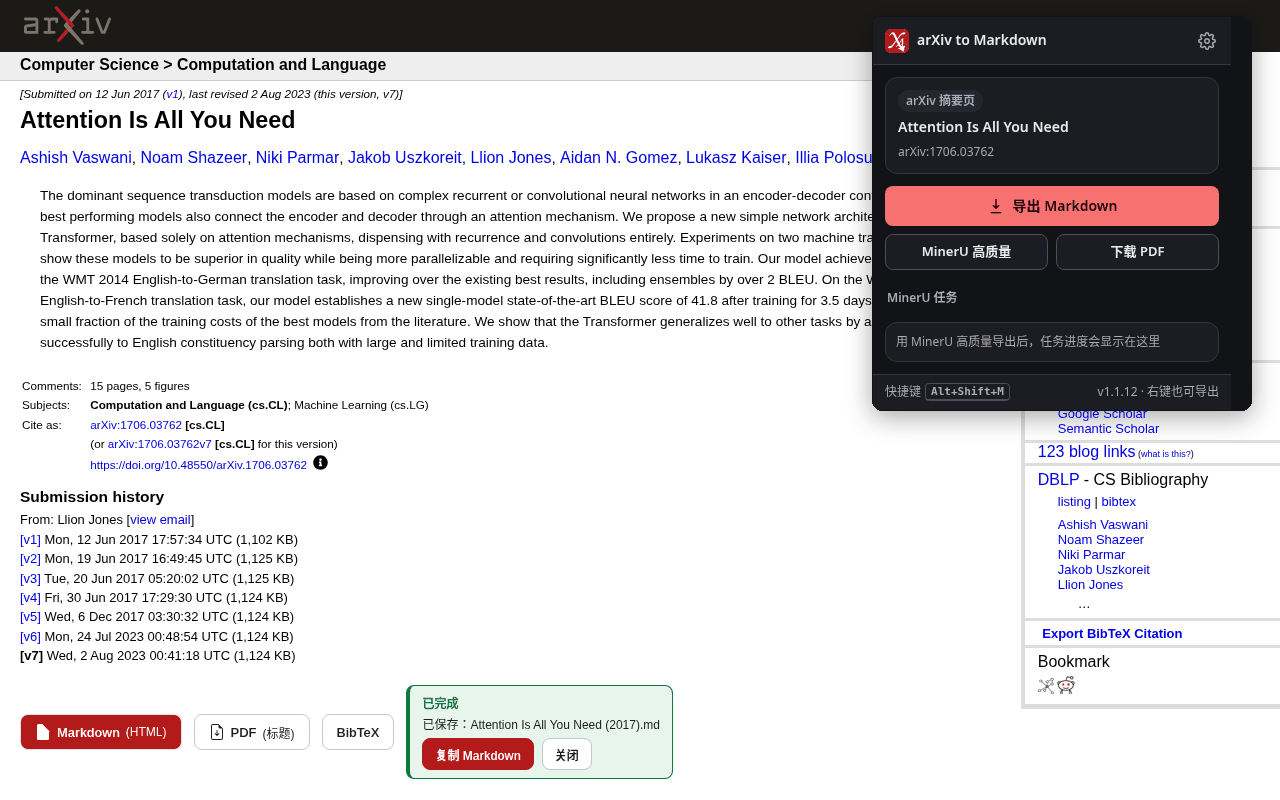
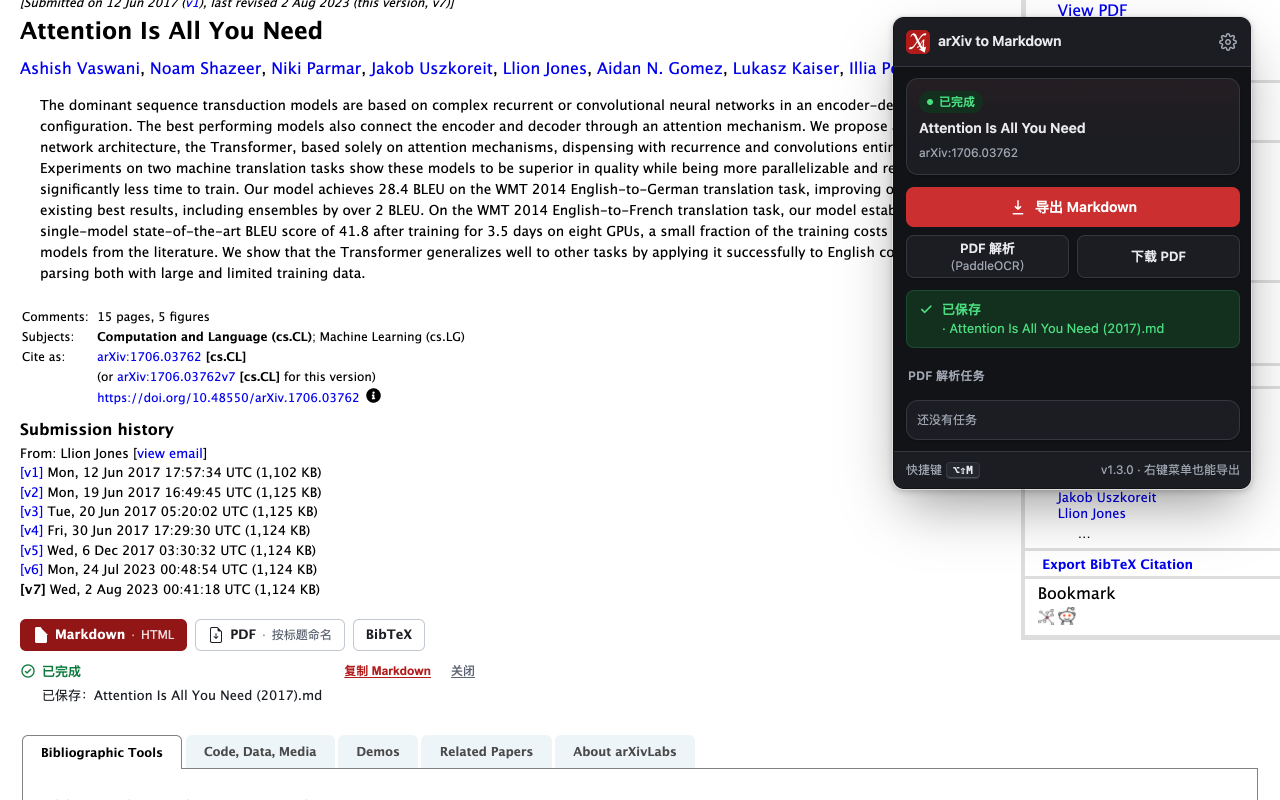
docs: refresh README screenshots and add Chrome Web Store assets
- README uses the same six screenshots in all three extensions (hero light/dark, page entry, exported Markdown, popup, settings), captured from the current release.
- docs/store/: Chinese store screenshots (1280x800), small and marquee promo tiles, and description.zh.txt ready to paste; docs/store-listing.md lists them.

Changed region(s): [[0.0, 0.0, 1.0, 0.9688], [0.9688, 0.1562, 1.0, 0.1875], [0.9688, 0.0938, 1.0, 0.125]]

diff --git a/docs/store-listing.md b/docs/store-listing.md
@@ -56,6 +56,8 @@
 • Zhihu to Markdown：知乎文章、回答、问题和热榜存为 Markdown。
 • Journal to Markdown：PMC、Nature、Frontiers 等期刊全文存为 Markdown。
 
+需要 Chrome 121 或更高版本。
+
 开源（MIT）：github.com/Tendo33/arxiv-md
 ```
 
@@ -89,8 +91,24 @@ Also in the series
 • Zhihu to Markdown — save Zhihu articles, answers, questions and the hot list as Markdown.
 • Journal to Markdown — save full-text articles from PMC, Nature, Frontiers and more as Markdown.
 
+Requires Chrome 121 or later.
+
 Open source (MIT): github.com/Tendo33/arxiv-md
 ```
+
+## 图片素材（中文，可直接上传）
+
+全部由真实扩展界面截取后合成，三款插件同一版式。生成方式：无界面 Chromium 加载 `dist/`，截取弹窗、设置页和页面内元素，导出的 Markdown 来自真实导出结果。
+
+| 文件 | 尺寸 | 内容 |
+| --- | --- | --- |
+| `docs/store/screenshot-1.png` | 1280×800 | 一键把 arXiv 论文存为 Markdown（论文页按钮 + 弹窗） |
+| `docs/store/screenshot-2.png` | 1280×800 | 公式、表格、参考文献原样保留（导出的 Markdown） |
+| `docs/store/screenshot-3.png` | 1280×800 | 没有 HTML 版？用 PDF 解析（设置页） |
+| `docs/store/screenshot-4.png` | 1280×800 | 浅色、深色都顺眼（深色模式） |
+| `docs/store/promo-small-440x280.png` | 440×280 | 小型宣传图块（必填） |
+| `docs/store/promo-marquee-1400x560.png` | 1400×560 | 顶部宣传图块（可选） |
+| `docs/store/description.zh.txt` | — | 中文详细说明，粘贴到「说明」 |
 
 ## 单一用途说明
 

diff --git a/README.md b/README.md
@@ -36,7 +36,7 @@
 
 | 页面内按钮 | 导出的 Markdown |
 | --- | --- |
-| <img src="docs/screenshots/page-buttons.png" alt="页面内按钮与结果卡片"> | <img src="docs/screenshots/markdown-output.png" alt="导出的 Markdown 文件"> |
+| <img src="docs/screenshots/page-entry.png" alt="页面内按钮与结果卡片"> | <img src="docs/screenshots/markdown-output.png" alt="导出的 Markdown 文件"> |
 
 ## 安装
 

diff --git a/README.en.md b/README.en.md
@@ -38,7 +38,7 @@
 
 | In-page buttons | Exported Markdown |
 | --- | --- |
-| <img src="docs/screenshots/page-buttons.png" alt="In-page buttons and result card"> | <img src="docs/screenshots/markdown-output.png" alt="Exported Markdown file"> |
+| <img src="docs/screenshots/page-entry.png" alt="In-page buttons and result card"> | <img src="docs/screenshots/markdown-output.png" alt="Exported Markdown file"> |
 
 ## Install
 
